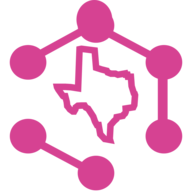
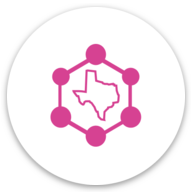
add social sharing card

diff --git a/src/components/logo/index.tsx b/src/components/logo/index.tsx
@@ -13,31 +13,30 @@ const Logo: React.FC = props => {
   return (
     <StyledSvg
       width={54}
-      height={59}
-      viewBox="0 0 54 59"
+      height={57}
+      viewBox="0 0 54 57"
       fill="none"
       {...props}
     >
       <path
-        d="M47.543 17c.805 0 1.457.435 1.457.971V43c0 .552-.672 1-1.5 1s-1.5-.448-1.5-1V18c0-.552.672-1 1.5-1h.043z"
+        d="M5.029 15c.536 0 .971.391.971.874V41.1c0 .497-.448.9-1 .9s-1-.403-1-.9V15.926c0-.511.46-.926 1.029-.926zM47.543 15c.805 0 1.457.435 1.457.971V41c0 .552-.672 1-1.5 1s-1.5-.448-1.5-1V16c0-.552.672-1 1.5-1h.043z"
         fill="#D64292"
       />
       <path
-        d="M27.473 55L3 41.974l1.268-2.025L28.74 52.975 27.473 55zm21.26-33.95L24.258 8.025 25.527 6 50 19.026l-1.268 2.025z"
+        d="M27.473 53L3 39.974l1.268-2.025L28.74 50.975 27.473 53zm21.26-33.95L24.258 6.025 25.527 4 50 17.026l-1.268 2.025z"
         fill="#D64292"
       />
-      <path d="M4.231 21L3 18.983 26.769 6 28 8.018 4.231 21z" fill="#D64292" />
       <path
-        d="M52.3 44.25h0c-1.41 2.308-4.551 3.095-7.003 1.77-2.452-1.327-3.29-4.285-1.88-6.594 1.41-2.307 4.552-3.094 7.004-1.768 2.467 1.34 3.304 4.284 1.88 6.592zM10.569 21.573c-1.41 2.308-4.552 3.095-7.004 1.77-2.452-1.327-3.29-4.285-1.88-6.594 1.41-2.307 4.552-3.094 7.004-1.768 2.452 1.34 3.29 4.284 1.88 6.592zM1.7 44.252c-1.41-2.309-.573-5.253 1.88-6.593 2.45-1.326 5.578-.54 7.003 1.769 1.41 2.308.572 5.252-1.88 6.592-2.467 1.326-5.594.539-7.003-1.768zm41.732-22.677c-1.41-2.309-.572-5.253 1.88-6.593 2.452-1.326 5.579-.54 7.004 1.769 1.41 2.308.572 5.252-1.88 6.592-2.452 1.326-5.594.539-7.004-1.768zM27 58c-2.833 0-5.125-2.155-5.125-4.823 0-2.668 2.292-4.823 5.125-4.823s5.125 2.155 5.125 4.823C32.125 55.832 29.833 58 27 58zm0-45.354c-2.833 0-5.125-2.155-5.125-4.823C21.875 5.155 24.167 3 27 3s5.125 2.155 5.125 4.823c0 2.668-2.292 4.823-5.125 4.823z"
+        d="M4.231 19L3 16.983 26.769 4 28 6.018 4.231 19zM28.088 52L27 50.245 47.912 39 49 40.755 28.088 52z"
+        fill="#D64292"
+      />
+      <path
+        d="M52.3 42.25h0c-1.41 2.308-4.551 3.095-7.003 1.77-2.452-1.327-3.29-4.285-1.88-6.594 1.41-2.307 4.552-3.094 7.004-1.768 2.467 1.34 3.304 4.284 1.88 6.592zM10.569 19.573c-1.41 2.308-4.552 3.095-7.004 1.77-2.452-1.327-3.29-4.285-1.88-6.594 1.41-2.307 4.552-3.094 7.004-1.768 2.452 1.34 3.29 4.284 1.88 6.592zM1.7 42.252c-1.41-2.309-.573-5.253 1.88-6.593 2.45-1.326 5.578-.54 7.003 1.769 1.41 2.308.572 5.252-1.88 6.592-2.467 1.326-5.594.539-7.003-1.768zm41.732-22.677c-1.41-2.309-.572-5.253 1.88-6.593 2.452-1.326 5.579-.54 7.004 1.769 1.41 2.308.572 5.252-1.88 6.592-2.452 1.326-5.594.539-7.004-1.768zM27 56c-2.833 0-5.125-2.155-5.125-4.823 0-2.668 2.292-4.823 5.125-4.823s5.125 2.155 5.125 4.823C32.125 53.832 29.833 56 27 56zm0-45.354c-2.833 0-5.125-2.155-5.125-4.823C21.875 3.155 24.167 1 27 1s5.125 2.155 5.125 4.823c0 2.668-2.292 4.823-5.125 4.823z"
         fill="#D64292"
         stroke="#D64292"
       />
       <path
-        d="M26.5 12c3.038 0 5.5-2.686 5.5-6s-2.462-6-5.5-6S21 2.686 21 6s2.462 6 5.5 6z"
-        fill="#D64292"
-      />
-      <path
-        d="M20.891 27.043l.603.094.025-.651.425-11.364.585-.122 4.066.515.403 4.895.033.396.357.114 1.348.431.015.005.015.004 1.555.395.157.305.1.195.198.075.738.279.088.033h1.359l.62.262.14.06.15-.026 2.115-.372.105.38h.577l.034.169.092.464h.929l.212 2.804.005.07.02.067.59 1.9.072.228.2.11.035.018.143.446-.235 3.082-.309.662-1.844.286-.501.077.032.54.017.288-.04.253-.223.484-.3.246-.07.058-.05.078-.208.33-1.545.31-.377.075-.064.404-.03.191-.666.595-.026.024-.023.027-.948 1.089-.135.154-.012.211-.21 3.875-.006.108.03.103.068.228-1.661-.294-1.358-1.46-.411-2.355-.084-.479h-.524l-.594-1.06-.509-1.47-.024-.07-.04-.061-1.454-2.229-.083-.126-.13-.067-.597-.308-.19-.316-.162-.27H22.494l-.014.001-.906.05-.158.01-.129.097-.337.253-.177.133-.044.225-.084.425-.177.288-.006.01-.006.011-.178.32H19.856l-.888-.656-.476-.641-.014-.019-.015-.017-.3-.343-.146-1.206-.005-.04-.01-.04-.337-1.316-.111-.432h-.648l-.061-.045-1.424-2.001-.404-.728-.017-.08h2.605l1.688.1 1.598.249z"
+        d="M20.891 25.043l.603.094.025-.651.425-11.364.585-.122 4.066.515.403 4.895.033.396.357.114 1.348.431.015.005.015.004 1.555.395.157.305.1.195.198.075.738.279.088.033h1.359l.62.262.14.06.15-.026 2.115-.372.105.38h.577l.034.169.092.464h.929l.212 2.804.005.07.02.067.59 1.9.072.228.2.11.035.018.143.446-.235 3.082-.309.662-1.844.286-.501.077.032.54.017.288-.04.253-.223.484-.3.246-.07.058-.05.078-.208.33-1.545.31-.377.075-.064.404-.03.191-.666.595-.026.024-.023.027-.948 1.089-.135.154-.012.211-.21 3.875-.006.108.03.103.068.228-1.661-.294-1.358-1.46-.411-2.355-.084-.479h-.524l-.594-1.06-.509-1.47-.024-.07-.04-.061-1.454-2.229-.083-.126-.13-.067-.597-.308-.19-.316-.162-.27H22.494l-.014.001-.906.05-.158.01-.129.097-.337.253-.177.133-.044.225-.084.425-.177.288-.006.01-.006.011-.178.32H19.856l-.888-.656-.476-.641-.014-.019-.015-.017-.3-.343-.146-1.206-.005-.04-.01-.04-.337-1.316-.111-.432h-.648l-.061-.045-1.424-2.001-.404-.728-.017-.08h2.605l1.688.1 1.598.249z"
         stroke="#D64292"
         strokeWidth={2}
       />

diff --git a/src/components/seo/index.tsx b/src/components/seo/index.tsx
@@ -24,34 +24,64 @@ const SEO = data => {
       <meta property="og:url" content="https://graphql-texas.org" />
       <meta property="og:type" content="website" />
       <meta property="og:description" content={data?.metaDescription || ''} />
-      <meta
-        property="og:image"
-        content="https://og-image-service-graphql-texas.vercel.app/.jpeg?theme=light&md=1&fontSize=200px&images=https%3A%2F%2Fraw.githubusercontent.com%2Fboltsource%2Fgraphql-texas%2Fmaster%2Fstatic%2Fgraphql-texas-logo.svg"
+      <meta property="og:image" content="/card.png" />
+      <meta property="twitter:image" content="/card.png" />
+      <link rel="apple-touch-icon" sizes="57x57" href="/apple-icon-57x57.png" />
+      <link rel="apple-touch-icon" sizes="60x60" href="/apple-icon-60x60.png" />
+      <link rel="apple-touch-icon" sizes="72x72" href="/apple-icon-72x72.png" />
+      <link rel="apple-touch-icon" sizes="76x76" href="/apple-icon-76x76.png" />
+      <link
+        rel="apple-touch-icon"
+        sizes="114x114"
+        href="/apple-icon-114x114.png"
       />
-      <meta
-        property="twitter:image"
-        content="https://og-image-service-graphql-texas.vercel.app/.jpeg?theme=light&md=1&fontSize=200px&images=https%3A%2F%2Fraw.githubusercontent.com%2Fboltsource%2Fgraphql-texas%2Fmaster%2Fstatic%2Fgraphql-texas-logo.svg"
+      <link
+        rel="apple-touch-icon"
+        sizes="120x120"
+        href="/apple-icon-120x120.png"
+      />
+      <link
+        rel="apple-touch-icon"
+        sizes="144x144"
+        href="/apple-icon-144x144.png"
+      />
+      <link
+        rel="apple-touch-icon"
+        sizes="152x152"
+        href="/apple-icon-152x152.png"
       />
       <link
         rel="apple-touch-icon"
         sizes="180x180"
-        href="apple-touch-icon.png"
+        href="/apple-icon-180x180.png"
+      />
+      <link
+        rel="icon"
+        type="image/png"
+        sizes="192x192"
+        href="/android-icon-192x192.png"
       />
       <link
         rel="icon"
         type="image/png"
         sizes="32x32"
-        href="favicon-32x32.png"
+        href="/favicon-32x32.png"
+      />
+      <link
+        rel="icon"
+        type="image/png"
+        sizes="96x96"
+        href="/favicon-96x96.png"
       />
       <link
         rel="icon"
         type="image/png"
         sizes="16x16"
-        href="favicon-16x16.png"
+        href="/favicon-16x16.png"
       />
-      <link rel="manifest" href="site.webmanifest" />
-      <link rel="mask-icon" href="safari-pinned-tab.svg" color="#5bbad5" />
-      <meta name="msapplication-TileColor" content="#da532c" />
+      <link rel="manifest" href="/manifest.json" />
+      <meta name="msapplication-TileColor" content="#ffffff" />
+      <meta name="msapplication-TileImage" content="/ms-icon-144x144.png" />
       <meta name="theme-color" content="#ffffff" />
 
       {/* OpenGraph tags */}
